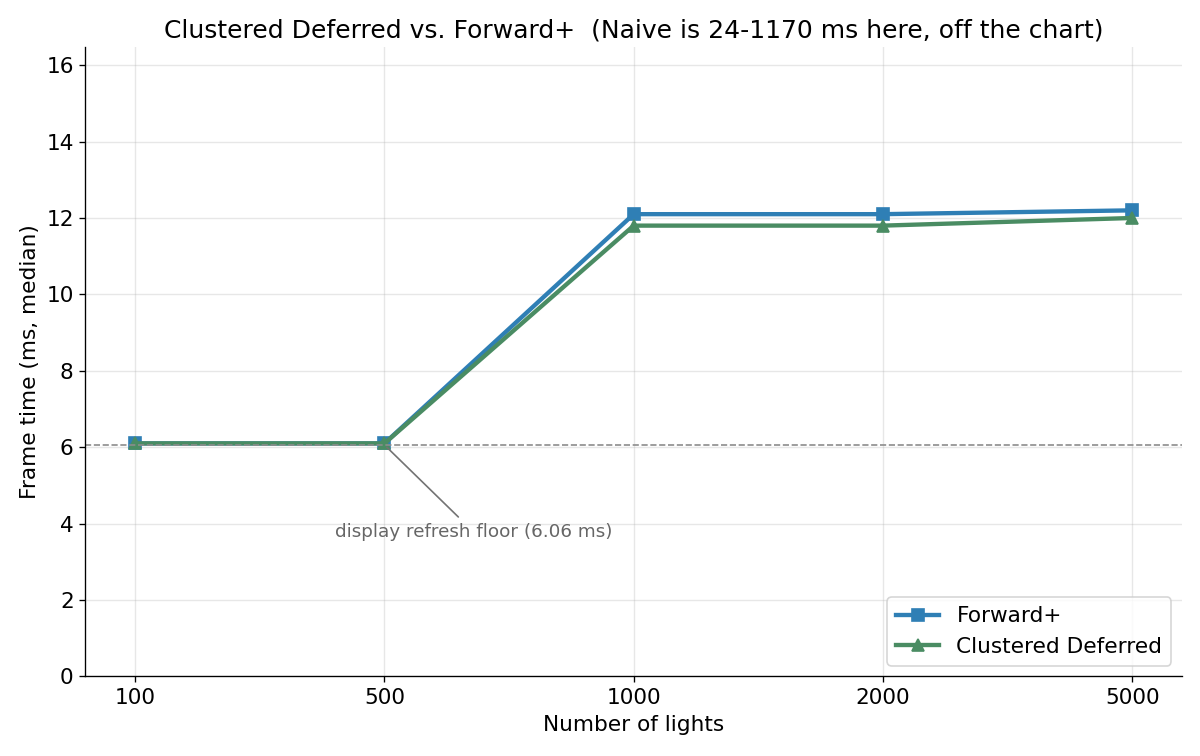
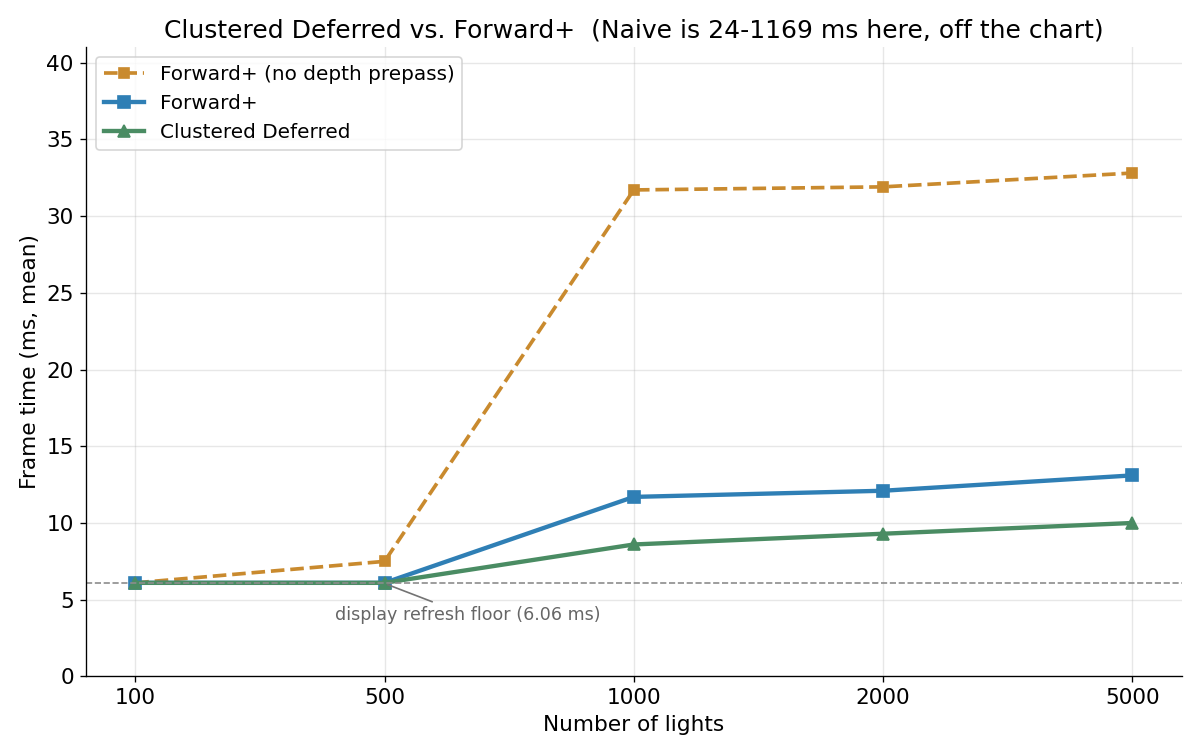
docs(readme): show Forward+ with and without the depth prepass
Plot both Forward+ builds on the frame time charts and add the row to the table, so the 31.7 / 31.9 / 32.8 ms to 11.7 / 12.1 / 13.1 ms change at 1000 / 2000 / 5000 lights is visible next to Naive and Clustered Deferred rather than only in a side table. The pre-prepass build was measured back to back with the current one by serving revision f0ebc76 from a second dev server.

Report means instead of medians: a configuration that sits on the 6.06 ms refresh floor has a bimodal median that flips between 6.1 and 12.1 ms between runs, while the mean is stable, which matters now that Clustered Deferred and Forward+ are compared within one refresh step.

diff --git a/README.md b/README.md
@@ -72,30 +72,33 @@ the cluster lookup was checked.*
 
 ## Performance
 
-Frame times are medians of `requestAnimationFrame` intervals, measured in
-headless Chrome 154 at a 2560x1600 render target with the light animation
-pinned to a fixed moment so that every mode shades the identical scene. The
-browser presents at 165 Hz, so every value is a multiple of 6.06 ms: a reported
-6.1 ms means "6.06 ms or less, not resolvable".
+Frame times are the mean of `requestAnimationFrame` intervals over 20-180
+frames, measured in headless Chrome 154 at a 2560x1600 render target with the
+light animation pinned to a fixed moment so that every mode shades the identical
+scene. The browser presents at 165 Hz, so individual frames quantise to 6.06 ms
+and 6.1 ms means that no frame missed a present. Means are reported instead of
+medians because a configuration that sits on the refresh floor has a median
+that jumps between 6.1 and 12.1 ms.
 
 ![](img/perf_frame_time.png)
 
 | Frame time (ms) | 100 | 500 | 1000 | 2000 | 5000 |
 |---|---|---|---|---|---|
-| Naive | 24.3 | 115.4 | 230.7 | 466.4 | 1169.5 |
-| Forward+ | 6.1 | 6.1 | 12.1 | 12.1 | 12.2 |
-| Clustered Deferred | 6.1 | 6.1 | 11.8 | 11.8 | 12.0 |
+| Naive | 23.7 | 116.1 | 231.8 | 464.9 | 1168.9 |
+| Forward+ (no depth prepass) | 6.1 | 7.5 | 31.7 | 31.9 | 32.8 |
+| Forward+ | 6.1 | 6.1 | 11.7 | 12.1 | 13.1 |
+| Clustered Deferred | 6.1 | 6.1 | 8.6 | 9.3 | 10.0 |
 
 ![](img/perf_forward_vs_deferred.png)
 
 * Naive scales linearly with the light count, from 24 ms at 100 lights to
-  1170 ms at 5000.
-* Forward+ and Clustered Deferred are flat from 1000 to 5000 lights: Forward+
-  moves from 12.1 to 12.2 ms and Clustered Deferred from 11.8 to 12.0 ms while
-  the light count quintuples.
-* The two are within one refresh step of each other over that range, and both
-  cluster lists saturate at 186 of the 6144 clusters hitting the 512 lights per
-  cluster cap.
+  1169 ms at 5000.
+* Forward+ is flat at 32 ms from 1000 to 5000 lights before the depth prepass
+  and at 12-13 ms after it, while the light count quintuples.
+* Clustered Deferred stays at 9-10 ms over the same range, so the depth prepass
+  brings Forward+ from 3.3-3.7x behind Clustered Deferred to within 1.3-1.4x of it.
+* Both cluster lists saturate at 186 of the 6144 clusters hitting the 512 lights
+  per cluster cap.
 
 ### Depth prepass
 
@@ -106,13 +109,15 @@ only those clusters are clustered.
 
 | Forward+ | 1000 | 2000 | 5000 |
 |---|---|---|---|
-| Before the prepass | 36.3 | 36.4 | 42.3 |
-| After the prepass | 12.1 | 12.1 | 12.2 |
+| Before the prepass | 31.7 | 31.9 | 32.8 |
+| After the prepass | 11.7 | 12.1 | 13.1 |
+
+Both builds are drawn on the two charts above.
 
 504 of the 6144 clusters hold visible geometry, so depth-based culling removes
 91.8% of the per-cluster light scans. The clustering pass was not the
-bottleneck: with culling turned off the frame time stays inside the same
-refresh step over 1000-5000 lights.
+bottleneck: with culling turned off the frame time moves by less than 0.5 ms
+over 1000-5000 lights.
 
 ### G-buffer optimisation
 
@@ -122,7 +127,7 @@ plus one `u32` (8 bytes per pixel), by storing the normal octahedrally packed
 and reconstructing the position from depth, and the fullscreen fragment pass
 was replaced by the compute pass.
 
-| Clustered Deferred | 500 | 1000 | 2000 | 5000 |
+| Frame time (ms, median, measured before the depth prepass) | 500 | 1000 | 2000 | 5000 |
 |---|---|---|---|---|
 | Before (28 B/px, fullscreen pass) | 6.1 | 12.1 | 12.1 | 12.3 |
 | After (8 B/px, compute pass) | 6.1 | 12.1 | 12.1 | 12.3 |
